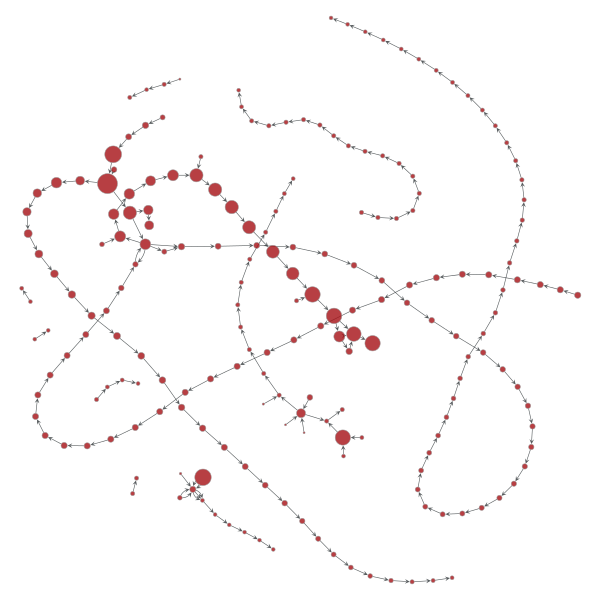
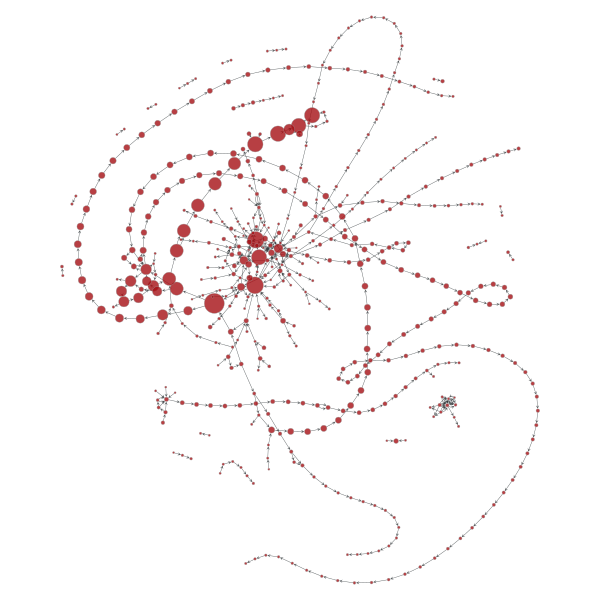
cleanup

diff --git a/Projekt/app/analysis.py b/Projekt/app/analysis.py
@@ -268,7 +268,6 @@ def get_wallet_transactions():
     return res
 
 
-
 def get_users():
     cur = db.cursor()
     cur.execute("""
@@ -289,10 +288,12 @@ if __name__ == '__main__':
 
     # Distribution of incomes of users
     print('Calculting total user incomes..')
+    # incomes = get_wallet_incomes()
     incomes = get_user_incomes()
 
     # Transactions between users
     print('Getting transactions between users..')
+    # transactions = get_wallet_transactions()
     transactions = get_user_transactions()
 
     print('Creating graph..')
@@ -306,7 +307,7 @@ if __name__ == '__main__':
     # calc_lower_bound(sat, 0.95)
     # calc_lower_bound(sat, 0.90)
     # calc_lower_bound(sat, 0.85)
-    limit = calc_lower_bound(sat, 0.30)
+    limit = calc_lower_bound(sat, 0.40)
     add_lower_income_limit(g, limit)
 
     print('Filterint Nodes')
@@ -314,7 +315,7 @@ if __name__ == '__main__':
     print("Edges: ", g.num_edges())
 
     print('Plotting graph..')
-    pos = sfdp_layout(g, vweight=g.vp.vweight)
+    pos = sfdp_layout(g, vweight=g.vp.vweight, C=.2)
     graph_draw(g, pos=pos, vertex_size=g.vp.vsize, output='user_filtered_weights.png')
     graph_draw(g, vertex_size=g.vp.vsize, output='user_filtered.png')
 
@@ -325,7 +326,7 @@ if __name__ == '__main__':
 
     # Lower bound on user transactions
     transaction_volumes = np.array([res[2] for res in transactions], dtype=np.int64)
-    transaction_limit = calc_lower_bound(transaction_volumes, 0.30)
+    transaction_limit = calc_lower_bound(transaction_volumes, 0.40)
 
     add_lower_transaction_limit(g, transaction_limit)
 
@@ -334,6 +335,6 @@ if __name__ == '__main__':
     print("Edges: ", g.num_edges())
 
     print('Plotting graph..')
-    pos = sfdp_layout(g, vweight=g.vp.vweight)
-    graph_draw(g, pos=pos, vertex_size=g.vp.vsize, output='transactions_filtered_weights.png')
+    pos = sfdp_layout(g, vweight=g.vp.vweight, C=.2)
+    graph_draw(g, pos=pos, vertex_size=g.vp.vsize, output='transactions_filtered_weights_sfdp.png')
     graph_draw(g, vertex_size=g.vp.vsize, output='transactions_filtered.png')
